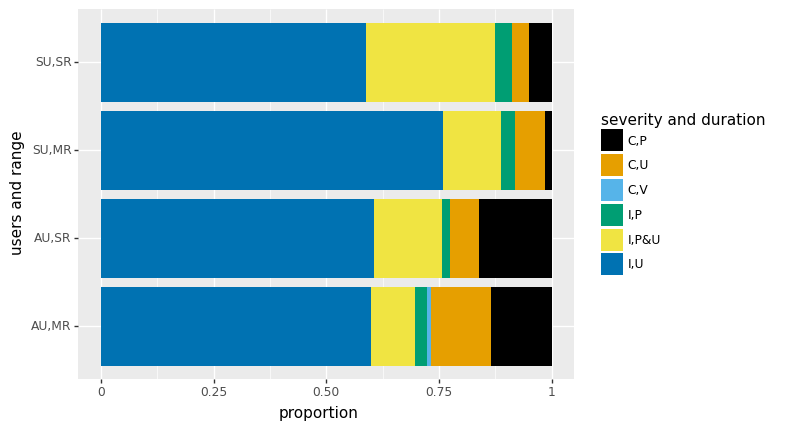
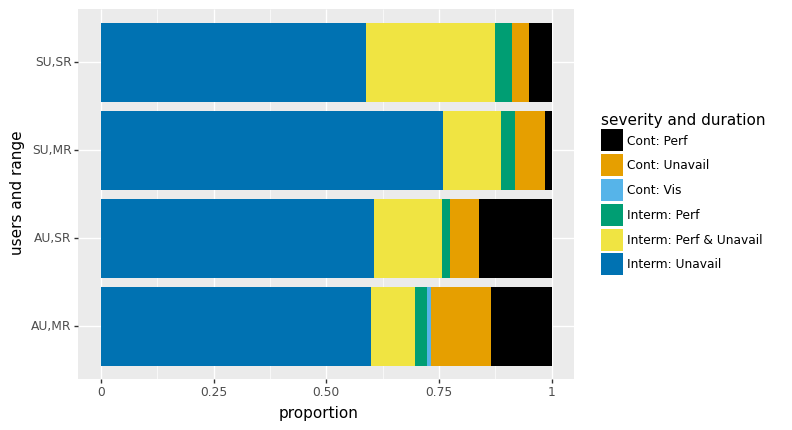
Another plot update

diff --git a/notebooks/util.py b/notebooks/util.py
@@ -44,11 +44,11 @@ def abbrev(s):
 # Replace words with known abbreviations
 def shorten(s):
     maps = {
-        'unavailable': 'U',
-        'degraded performance': 'P',
-        'intermittent': 'I',
-        'continuous': 'C',
-        'visual': 'V',
+        'unavailable': 'Unavail',
+        'degraded performance': 'Perf',
+        'intermittent': 'Interm',
+        'continuous': 'Cont',
+        'visual': 'Vis',
         'some': 'SU',
         'all': 'AU',
         'single region': 'SR',
